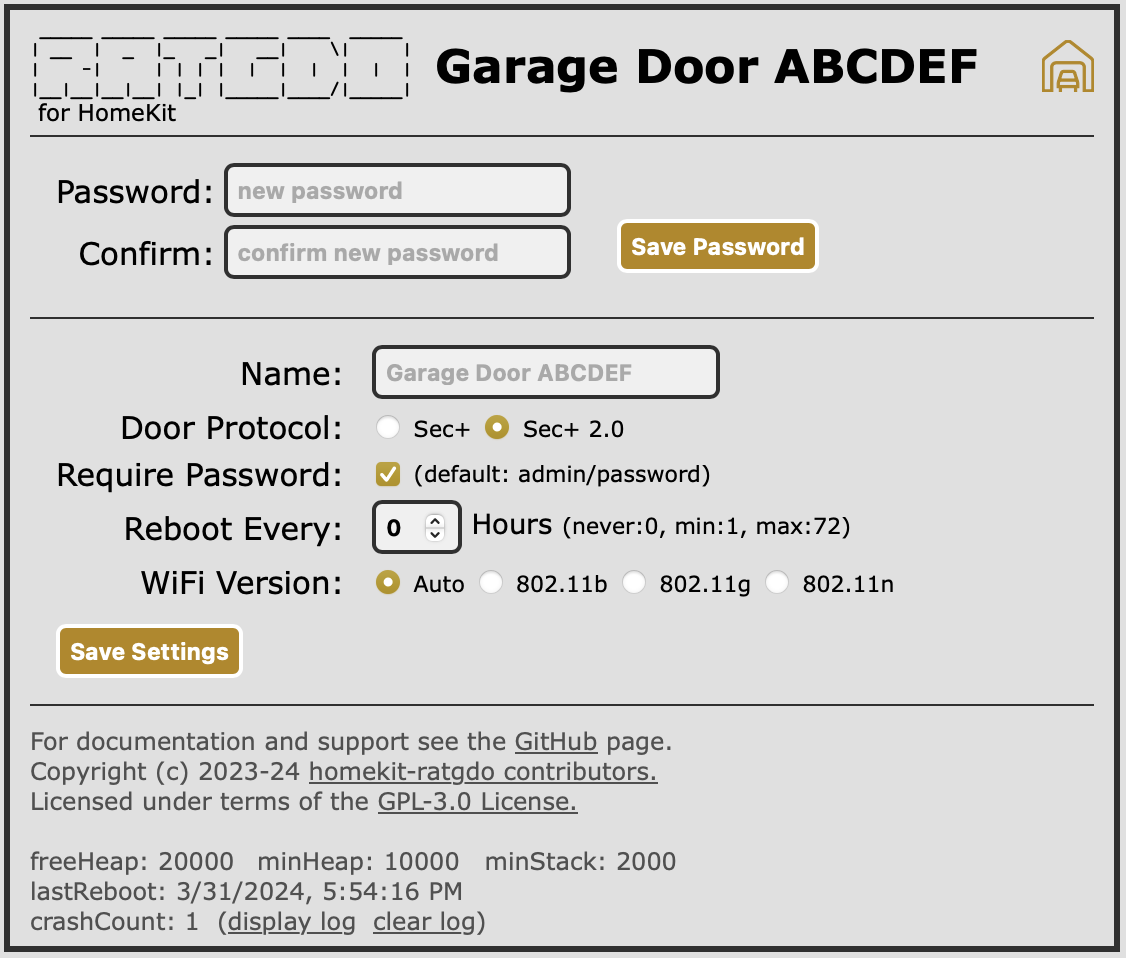
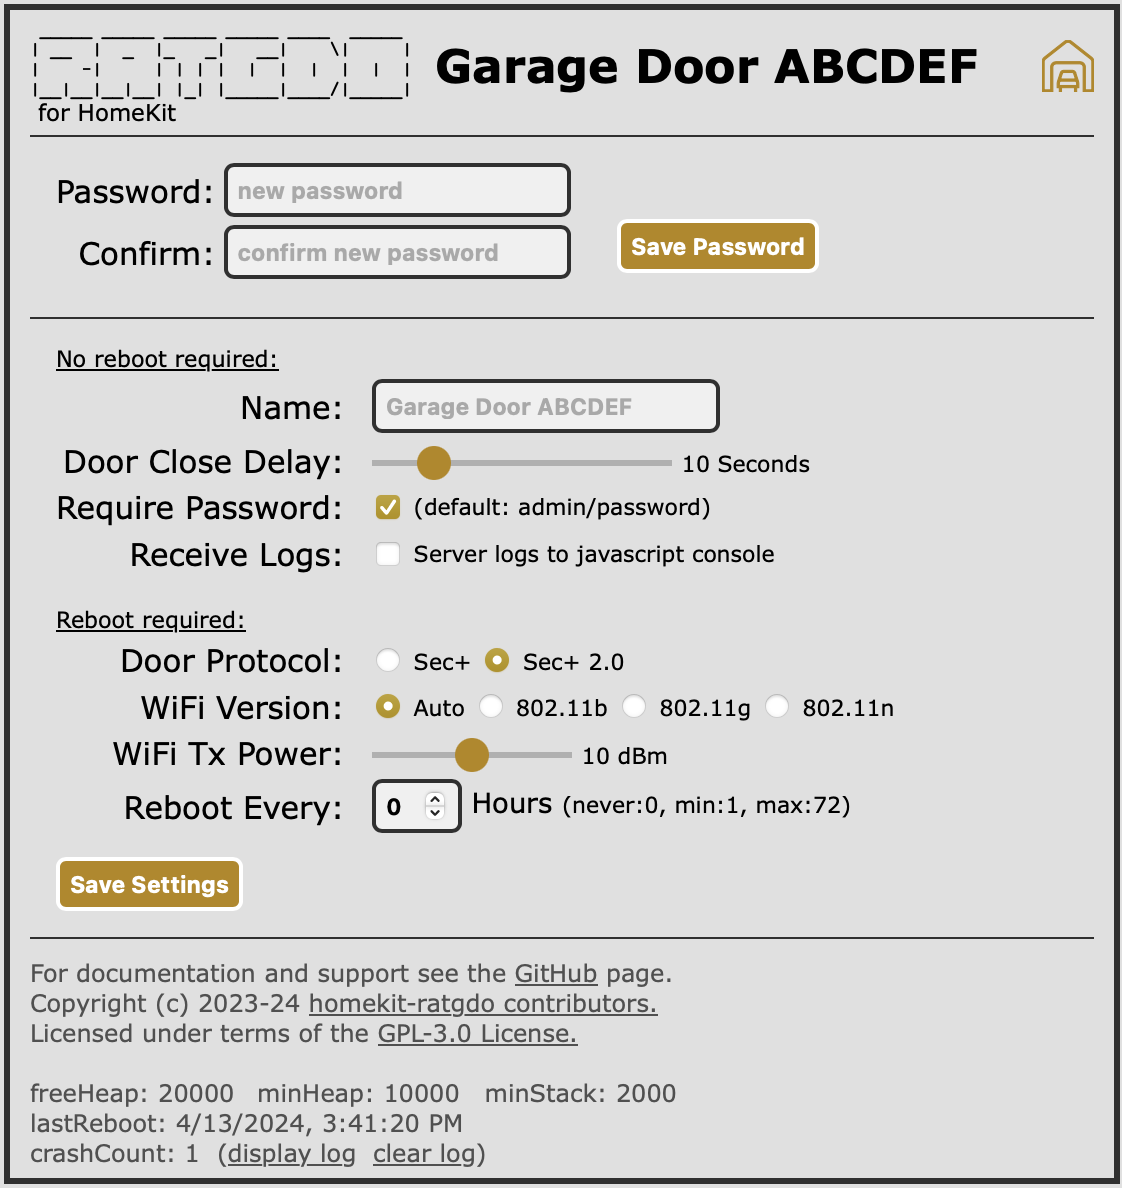
Update readme and screen captures to match current code.

Changed region(s): [[0.0, 0.0, 0.9982, 0.999]]

diff --git a/README.md b/README.md
@@ -16,9 +16,9 @@ ESP8266-based hardware.
 > See the section below on where to get help.
 
 > [!WARNING]
-> This firmware does not currently provide support the delayed close feature while warning users with
-> flashing lights and beeping.  When you ask it to close, it closes.  If this is a concern for you, then you
-> may want to go with another solution until this feature can be implemented.  See [Issue #60](https://github.com/ratgdo/homekit-ratgdo/issues/60)
+> Delayed close feature is disabled by default. You can enable a delay of up-to 60 seconds on the
+> settings page. During the delay period the garage door lights will flash and you may hear the
+> relay clicking, but there is no audible beep.
 
 > [!NOTE]
 > Many thanks to the original author @thenewwazoo.
@@ -73,7 +73,7 @@ The final section provides useful links to documentation and legal/license infor
 
 ### Authentication
 
-By default authentication is not required for any action on this web page.  However it is strongly recommended that you enable the setting to require a password and change the default. If authentication is enabled then all buttons _except_ Reboot and entering the settings page are protected with a username and password
+By default authentication is not required for any action on this web page.  However it is strongly recommended that you enable the setting to require a password and change the default. If authentication is enabled then all buttons _except_ Reboot are protected with a username and password
 
 #### Default Username/Password: `admin`/`password`
 
@@ -96,21 +96,33 @@ If you save any settings from this page the ratgdo device will reboot and after 
 
 This updates the name reported to HomeKit and for mDNS device discovery.  The default name is _Garage Door ABCDEF_ where the last 6 characters are set to the MAC address of the ratgdo device. Changing the name after pairing with HomeKit does not change the name within HomeKit or Apple Home.
 
-### Door Protocol
+### Door Close Delay
 
-Set the protocol for your model of garage door opener.  This defaults to Security+ 2.0 and you should only change this if necessary.
+You can select up-to 60 second delay before door starts closing. During the delay period the garage door lights will flash and you may hear the relay clicking, but there is no audible beep.
 
 ### Require Password
 
 If selected then all the action buttons _except reboot_, and access to the settings page, will require authentication.  Default is not required.
 
-### Reboot Every
+### Receive Logs
 
-During early devlopment there were several reports that the ratgdo device would reset itself and loose its pairing with HomeKit. To reduce the chance of this occuring a regular (e.g. daily) reboot of the device provided a work-around. The firmware is far more stable now and it is hoped that this is no longer required. This setting may be removed in future versions.
+This option is not available on mobile devices. On a desktop browser all server firmware logs can be displayed in the javascript console log. On some browsers you may need to enable developer mode before you can open the javascript console.
+
+### Door Protocol
+
+Set the protocol for your model of garage door opener.  This defaults to Security+ 2.0 and you should only change this if necessary.
 
 ### WiFi Version
 
-If the device faile to connect reliably and consistently to your WiFi network it may help to lock it to a specific WiFi version. The ratgdo supports 802.11b, 802.11g and 802.11n on the 2.4GHz WiFi band and by default will auto-select. If it helps in your network, select the specific version you wish to use.  Note: If you select a version that your network does not support then the ratgdo will revert to auto-select and reboot itself after 30 seconds. 
+If the device faile to connect reliably and consistently to your WiFi network it may help to lock it to a specific WiFi version. The ratgdo supports 802.11b, 802.11g and 802.11n on the 2.4GHz WiFi band and by default will auto-select. If it helps in your network, select the specific version you wish to use.  Note: If you select a version that your network does not support then the ratgdo will revert to auto-select and reboot itself after 30 seconds.
+
+### WiFi Tx Power
+
+You can set the WiFi transmit power to between 0 and 20 dBm. It defaults to the maximum (20.5 dBm, displayed as 20 dBm) but you may wish to fine tune this to control how the device connects to available WiFi access points.
+
+### Reboot Every
+
+During early devlopment there were several reports that the ratgdo device would reset itself and loose its pairing with HomeKit. To reduce the chance of this occuring a regular (e.g. daily) reboot of the device provided a work-around. The firmware is far more stable now and it is hoped that this is no longer required. This setting may be removed in future versions.
 
 ## How do I upgrade?
 
